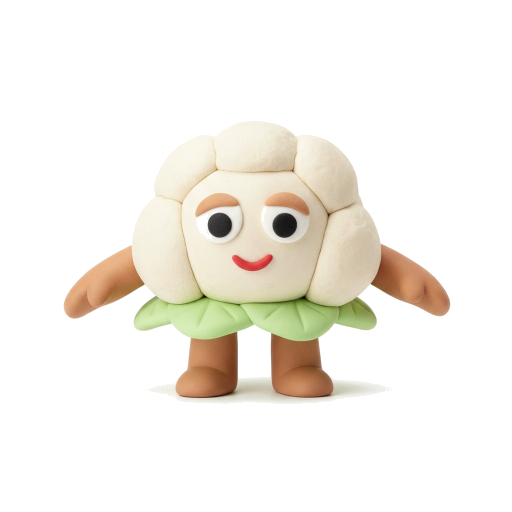
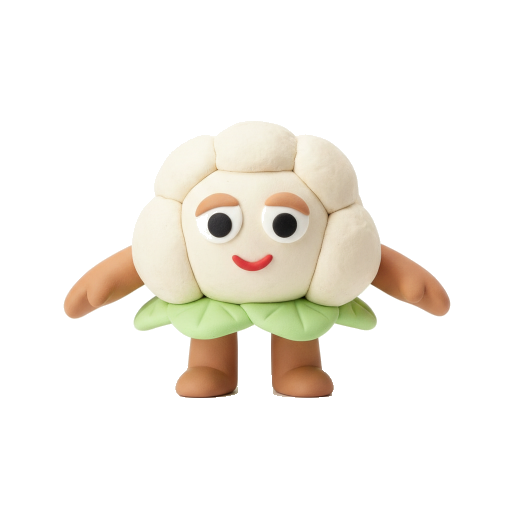
VARIANTS: knock out Veo's residual floor shadow geometrically
The soft grey floor shadow is the exact colour of pale clay (cauliflower's
cream body), so no colour threshold can cut one without the other. Instead:
per column find the lowest clearly-body pixel (colourful or dark) — below
that line is floor by definition and is cut regardless of colour; a foot-
height band beside the feet additionally drops grey-bright halo pixels.

Changed region(s): [[0.3125, 0.7188, 0.75, 0.8125]]

diff --git a/tools/finalize_variants.py b/tools/finalize_variants.py
@@ -24,7 +24,25 @@ FRAME_MS = 110  # ≈ real time for 24fps sources with every 3rd frame kept
 
 def transparent(rgb: np.ndarray) -> Image.Image:
     near_white = (rgb > 238).all(axis=2)
-    rgba = np.dstack([rgb, np.where(near_white, 0, 255).astype(np.uint8)])
+    # Veo leaves a soft grey floor shadow around the feet, and it is the exact
+    # colour of pale clay (cauliflower's cream body) — no colour threshold can
+    # separate them. Geometry can: the shadow always lies BELOW the character.
+    # Per column, find the lowest clearly-body pixel (colourful or dark); grey
+    # bright pixels below that line (bottom 35% of the frame only) are floor.
+    mx = rgb.max(axis=2).astype(int)
+    mn = rgb.min(axis=2).astype(int)
+    sat = mx - mn
+    h = rgb.shape[0]
+    body = (sat >= 35) | (mx < 170)
+    foot = np.where(body.any(axis=0), h - 1 - np.argmax(body[::-1], axis=0), -1)
+    rows = np.arange(h)[:, None]
+    # strictly below the anchor: floor by definition, cut regardless of colour;
+    # beside the feet (a foot-height band above): cut only grey-bright pixels.
+    below = rows > foot[None, :]
+    beside = (rows > (foot[None, :] - h // 16)) & (sat < 26) & (mx > 175)
+    shadowish = (below | beside) & (rows > int(h * 0.65))
+    cut = near_white | shadowish
+    rgba = np.dstack([rgb, np.where(cut, 0, 255).astype(np.uint8)])
     return Image.fromarray(rgba, "RGBA")
 
 
